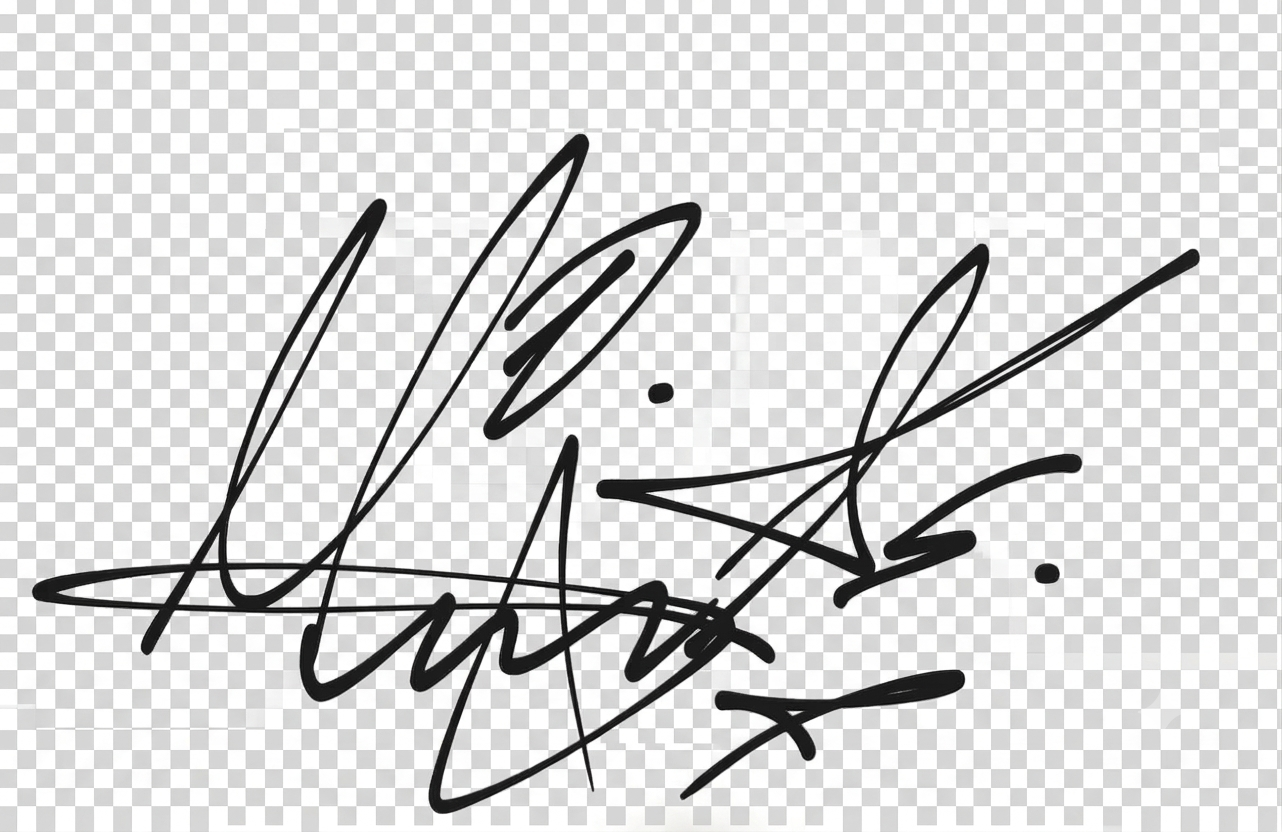
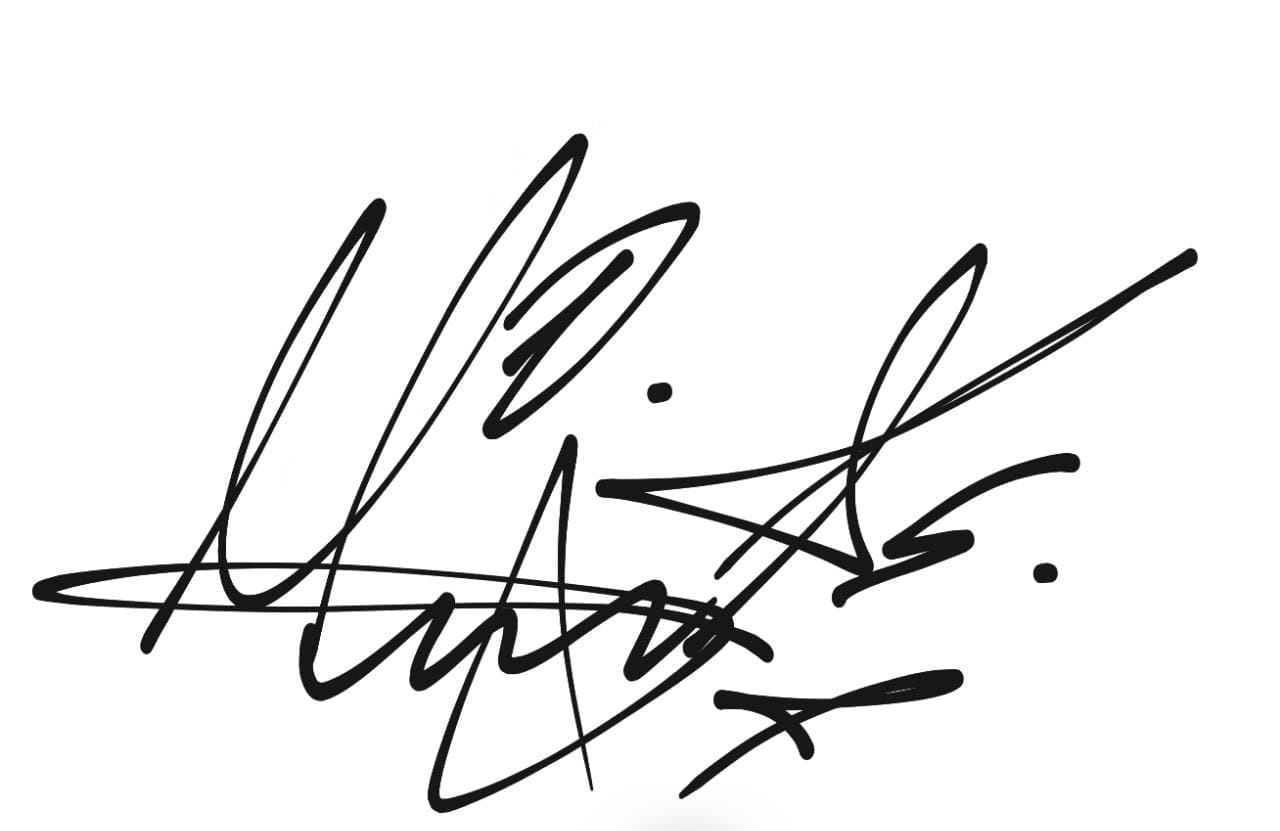
haciendo responsive

diff --git a/styles.css b/styles.css
@@ -6,103 +6,151 @@
 }
 
 body {
-  background-color: #e6e6caef;
-  min-height: 100vh;
-  padding: 20px;
-  display: flex;
-  flex-direction: column;
-  justify-content: flex-start;
-  align-items: center;
-}
-main{
-  flex: 1;/*acá le damos todo el espacio que queda después del header, es un atajo que hace que el elemento crezca y ocupe todo el espacio sobrante dentro de un contenedor flexible*/
-  display: flex;/*centramos su contenido: la card*/
-  justify-content: center;
-  align-items: center;
-}
-.encabezadoPagina{
-  background-color: #3b66a7;
-  text-align: center;
-  padding: 35px;
-  border-radius: 10px;
-  width: 800px;
-  border: 2px solid black;
-  color:antiquewhite
-   /* margin: 0 auto;Esta linea centra la caja de mi header, el 0 es para decirle al navegador que no queremos espacio arriba ni abajo, el auto dice reparte el espacio sobrante a der e izq automáticamente */
-}
-#contenedorCredencial{
-  background-color: #7dadf7;
-  width: 1000px;
-  height: 560px;
-  border: 3px solid black;
-  border-bottom-left-radius: 20px;
-  border-bottom-right-radius: 20px;
-/*
-  
-  display: flex; ESTO CENTRA SOLO LOS ELEMENTOS HIJOS DE ESTE COMPONENTE, NO EL COMPONENTE EN SÍ MISMO.
-  justify-content: center;
-  align-items: center;
-*/
-}
-#cabeceraCard{
-  color:antiquewhite;
-  background-color: #3b66a7;
-  padding: 5px;
-  text-align: center;
-  height: 50px;
-  border: 2px solid black;
-  font-weight: bold;
-}
-#contenedorFila{
-  display: flex;
-  justify-content: space-between;
-  padding: 25px;
-  
-}
-.cajitas{
-  padding: 15px;
-  /*border: 2px solid black;*/
-  width: 280px;
-  height: 180px;
-  display: flex;
-  flex-direction: column;
-  justify-content: center;
-  align-items: center;
-}
-#cajitaFoto{
-  /*border: 2px solid black;*/
-  width: 285px;
-  height: 180px;
-}
-#imagen{
-  width: 100%;  /* Ancho fijo de 300 píxeles */
-  /*max-width: 350px;*/
-  height: 260px;
-  border-radius: 15px;
-}
-#frasePersonal{
-  padding-top: 60px;
-  text-align: center;
-  font-weight: bold;
-  font-style: italic;
-}
-#contenedorTexto{
-  padding: 8px;
-  display: flex;
-  flex-direction: column;
-  justify-content: center;
-  align-items: center;
-
-}
-.parrafo{
-  padding: 3px;
-}
-#pie{
-  flex:1;
-  display: flex;
-  justify-content: center;
-  align-items: center;
-  
+    background-color: #e6e6caef;
+    min-height: 100vh; /*  100vh para que se ajuste al alto real de la pantalla */
+    padding: 20px 10px; /* 20 en x 10 en y */
+    display: flex;
+    flex-direction: column;
+    justify-content: flex-start;
+    align-items: center;
+    gap: 20px; /* Crea un espacio limpio entre Header, Main y Footer */
 }
 
+main {
+    flex: 1;/*acá le damos todo el espacio que queda después del header, es un atajo que hace que el elemento crezca y ocupe todo el espacio sobrante dentro de un contenedor flexible*/
+    display: flex;
+    justify-content: center;
+    align-items: center;
+    width: 100%; /* Asegura que el main aproveche el ancho disponible */
+}
 
+.encabezadoPagina {
+    background-color: #3b66a7;
+    text-align: center;
+    padding: 20px;
+    border-radius: 10px;
+    width: 100%;
+    max-width: 800px; /* No pasa de 800px en PC, pero se encoge en celulares */
+    border: 2px solid black;
+    color: antiquewhite;
+    position: sticky;
+    top: 10px;
+    z-index: 1000;
+}
+
+#contenedorCredencial {
+    background-color: #7dadf7;
+    
+    /* CAMBIO CLAVE: Ancho fluido y altura automática */
+    width: 100%;
+    max-width: 1000px; 
+    min-height: 610px; /* En lugar de height: 610px, le damos altura MÍNIMA para que pueda crecer si es necesario */
+    
+    border: 3px solid black;
+    border-bottom-left-radius: 20px;
+    border-bottom-right-radius: 20px;
+    padding-bottom: 20px;
+}
+
+#cabeceraCard {
+    color: antiquewhite;
+    background-color: #3b66a7;
+    padding: 10px;
+    text-align: center;
+    border: 2px solid black;
+    font-weight: bold;
+}
+#contenedorFila {
+    display: flex;
+    justify-content: space-between;
+    align-items: center;
+    padding: 25px;
+    gap: 15px;
+}
+
+.cajitas {
+    padding: 15px;
+    width: 100%;
+    max-width: 280px;
+    display: flex;
+    flex-direction: column;
+    justify-content: center;
+    align-items: center;
+}
+
+#cajitaFoto {
+    width: 100%;
+    max-width: 285px;
+    display: flex;
+    justify-content: center;
+}
+
+#imagen {
+    width: 100%;
+    max-width: 280px;
+    height: auto; 
+    max-height: 260px;
+    object-fit: cover;
+    border-radius: 15px;
+}
+
+#frasePersonal {
+    padding-top: 30px;
+    text-align: center;
+    font-weight: bold;
+    font-style: italic;
+    padding-left: 10px;
+    padding-right: 10px;
+}
+
+#contenedorTexto {
+    margin: 8px;
+    display: flex;
+    flex-direction: column;
+    justify-content: center;
+    align-items: center;
+}
+
+#firma {
+    width: 200px;
+    height: auto;
+    padding: 0;
+}
+
+.parrafo {
+    padding: 3px;
+    text-align: center;
+}
+
+#pie {
+    border: 2px solid black; 
+    width: 100%;
+    text-align: center;
+    padding: 15px;
+    background-color: #3b66a7;
+    color: antiquewhite;
+}
+
+   /*MEDIA QUERY: ESTILOS PARA PANTALLAS PEQUEÑAS (MÓVILES)*/
+@media (max-width: 768px) {
+    
+    /* Cambiamos la fila a columna para que los elementos se apilen verticalmente */
+    #contenedorFila {
+        flex-direction: column;
+        align-items: center;
+        padding: 15px;
+    }
+
+    /* La foto se posiciona primero en móviles para dar mejor jerarquía visual */
+    #cajitaFoto {
+        order: -1; 
+    }
+
+    .encabezadoPagina h1 {
+        font-size: 1.4rem; /* Reducimos ligeramente el título en celulares */
+    }
+
+    #contenedorCredencial {
+        border-radius: 15px; /* Bordes suaves en móvil */
+    }
+}

diff --git a/credencial.html b/credencial.html
@@ -24,14 +24,15 @@
             </header>
             <section id="contenedorFila">
                 <section class="cajitas">
-                    <a href="https://github.com/DeybidMoreno7">GitHub <i class="fa-brands fa-square-github fa-3x"></i></a>                     
-                    <p>JavaLover <i class="fa-brands fa-java fa-3x"></i></p>                    
+                    <a href="https://github.com/DeybidMoreno7">GitHub <i
+                            class="fa-brands fa-square-github fa-3x"></i></a>
+                    <p>JavaLover <i class="fa-brands fa-java fa-3x"></i></p>
                 </section>
                 <section id="cajitaFoto">
                     <img id="imagen" src="fotoSanti.jpeg" alt="imagenSanti">
                 </section>
                 <section class="cajitas">
-                    <p>FutboLover <i class="fa-solid fa-futbol fa-3x"></i></p>                    
+                    <p>FutboLover <i class="fa-solid fa-futbol fa-3x"></i></p>
                 </section>
             </section>
             <p id="frasePersonal">"Tu vida es Ahora... y siempre Ahora"</p>
@@ -41,14 +42,14 @@
                 <p class="parrafo">[email redacted]</p>
                 <p class="parrafo">Bogotá D.C.</p>
                 <p class="parrafo">Colombia</p>
+                <img id="firma" src="firmaSantiTransparente.png" alt="">
             </section>
-            <footer id="pie">
-                <p>firma aqui</p>
-                <!-- <img src="firmaSantiTransparente.png" alt="firmaSanti">-->
-            </footer>
-        </section>        
+        </section>
     </main>
-
+    <footer id="pie">
+        <p>Desarrollador por</p>
+        <p>Ing. Santiago Moreno</p>
+    </footer>
 </body>
 
 </html>